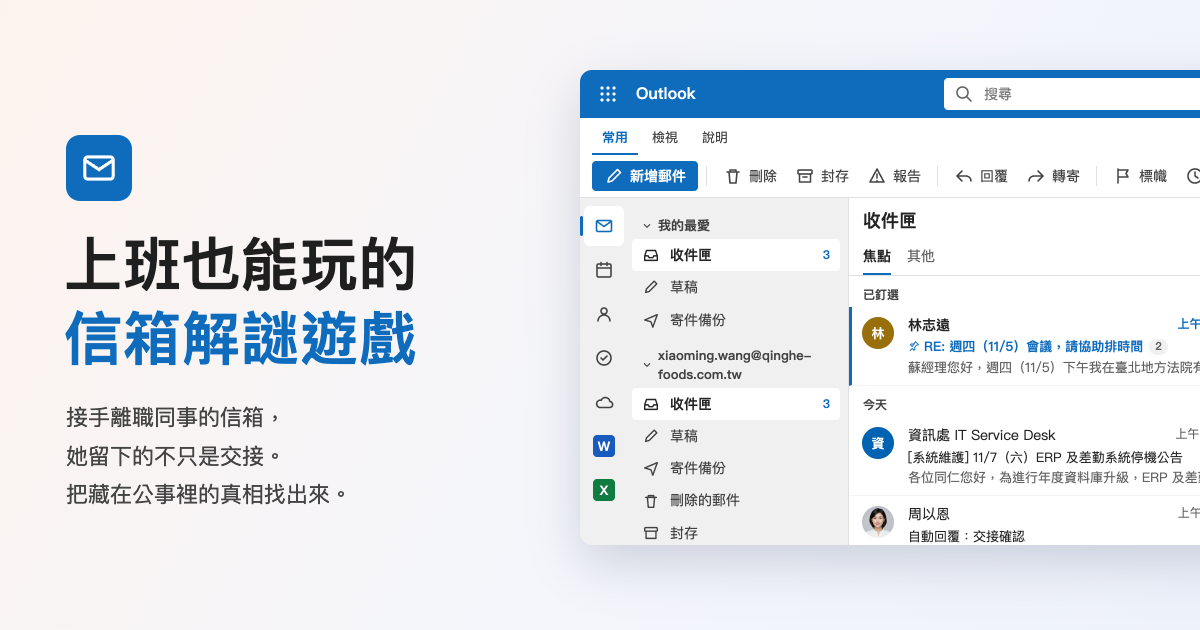
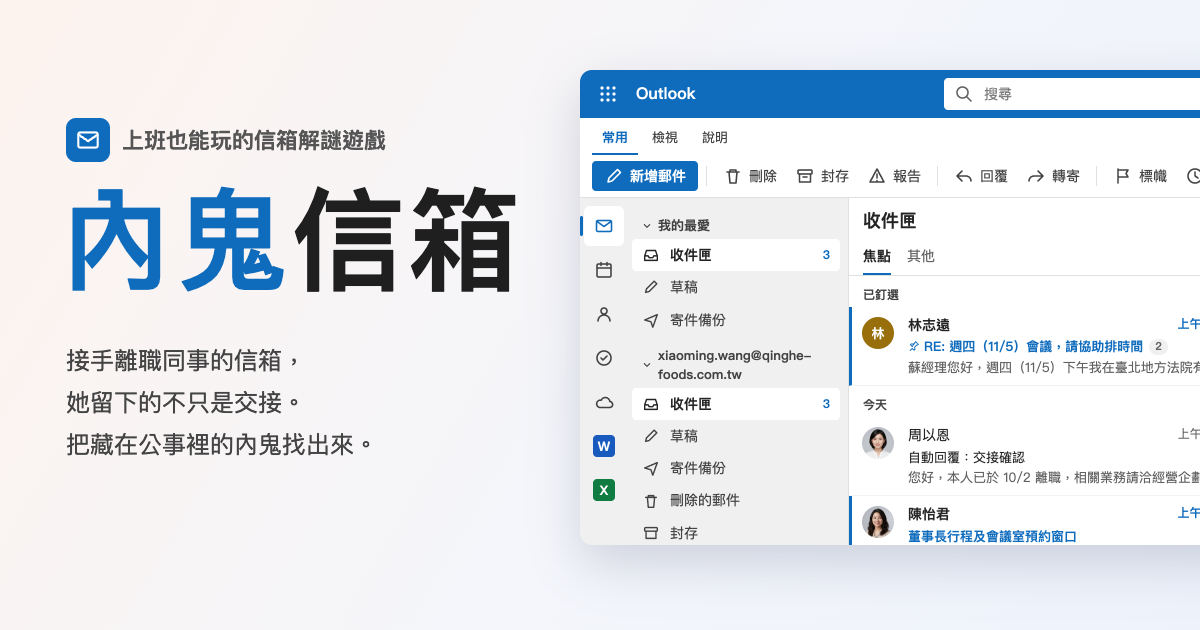
feat: 定名《內鬼信箱》＋題目修正、壞結局成績單、附件改 Outlook 樣式
- 第 7 題密碼改諧音數字謎（5914），藏在以恩回信
- 第 1/6/12/15 題文字與判定放寬、包裹清單改到第 13 題才到
- 壞結局補成績單與作者信、作者頭像換小黃瓜、作者信連前作《冒牌信箱》
- 刪三封干擾信、分享圖重做

Changed region(s): [[0.0308, 0.181, 0.4317, 0.8143], [0.7092, 0.6635, 1.0, 0.8746], [0.9867, 0.6635, 1.0, 0.6937]]

diff --git a/index.html b/index.html
@@ -6,7 +6,7 @@
 <meta name="robots" content="noindex,nofollow">
 <meta property="og:type" content="website">
 <meta property="og:url" content="https://akangdesigner.github.io/qinghe-mail/">
-<meta property="og:title" content="上班也能玩的信箱解謎遊戲">
+<meta property="og:title" content="內鬼信箱｜上班也能玩的信箱解謎遊戲">
 <meta property="og:description" content="接手離職同事的信箱，她留下的不只是交接。把藏在公事裡的真相找出來。">
 <meta property="og:image" content="https://akangdesigner.github.io/qinghe-mail/og.png">
 <meta property="og:image:width" content="1200">
@@ -332,6 +332,16 @@ table.sheet{border-collapse:collapse;font-size:13px;margin:0 16px 16px;min-width
 .schd{display:flex;align-items:center;gap:10px;flex-wrap:wrap;background:#fff4ce;border:1px solid #f0d78c;color:#5c4100;border-radius:6px;padding:8px 12px;margin-bottom:12px;font-size:13.5px}
 .schd button{margin-left:auto;background:#fff;border:1px solid #c8a600;border-radius:4px;padding:4px 12px;font-weight:600;color:#5c4100}
 .schd.off{background:#f0f0f0;border-color:var(--line);color:var(--muted)}
+.files{display:flex;flex-wrap:wrap;gap:8px;margin:14px 0 4px 52px}
+.fcard{display:flex;align-items:center;gap:10px;width:236px;border:1px solid var(--line);border-radius:4px;padding:6px 8px;cursor:pointer;background:#fff;font-size:13px}
+.fcard:hover{background:#f5f5f5}
+.fcard .fi{width:28px;height:32px;border-radius:2px;display:grid;place-items:center;color:#fff;font:700 12px/1 sans-serif;flex:none}
+.fcard .fn{flex:1;min-width:0}.fcard .fn b{display:block;font-weight:400;white-space:nowrap;overflow:hidden;text-overflow:ellipsis}.fcard .fn small{color:var(--muted);font-size:12px}
+.fcard .fd{color:var(--muted);font-size:12px;padding:2px 4px}
+.it .chips{grid-column:2/4;display:flex;gap:6px;margin-top:4px}.it .chip{display:flex;align-items:center;gap:6px;border:1px solid var(--line);border-radius:12px;padding:2px 10px 2px 4px;font-size:12px;max-width:200px;white-space:nowrap;overflow:hidden;text-overflow:ellipsis;background:#fff}
+.it .chip i{width:16px;height:16px;border-radius:2px;color:#fff;font:700 9px/16px sans-serif;text-align:center;font-style:normal;flex:none}
+.it .clip{width:13px;height:13px;vertical-align:-2px;margin-right:4px;color:var(--muted)}
+.cl{color:#0f6cbd;text-decoration:none}.cl:hover{text-decoration:underline}.cl::before{content:"X";display:inline-block;width:14px;height:14px;margin:0 4px 0 2px;border-radius:2px;background:#107c41;color:#fff;font:700 9px/14px sans-serif;text-align:center;vertical-align:-1px}
 .att{display:inline-block;border:1px solid var(--line);border-radius:6px;padding:6px 12px;font-size:13px;margin-bottom:12px}
 
 /* 登入 */
@@ -362,7 +372,7 @@ table.sheet{border-collapse:collapse;font-size:13px;margin:0 16px 16px;min-width
 .rs-h b{border:2px solid #fff;border-radius:4px;padding:1px 10px;font-size:15px;letter-spacing:4px;transform:rotate(-4deg)}
 .rs-g{display:flex;align-items:center;gap:16px;padding:16px}
 .rs-rank{width:64px;height:64px;flex:none;border-radius:50%;display:grid;place-items:center;font:900 36px/1 Georgia,serif;color:#fff;background:#9aa0a6}
-.rs-S .rs-rank{background:#c99a2e}.rs-A .rs-rank{background:#0f6cbd}.rs-B .rs-rank{background:#498205}.rs-C .rs-rank{background:#9aa0a6}
+.rs-S .rs-rank{background:#c99a2e}.rs-A .rs-rank{background:#0f6cbd}.rs-B .rs-rank{background:#498205}.rs-C .rs-rank{background:#9aa0a6}.rs-D .rs-rank{background:#a4262c}
 .rs-g small{display:block;color:var(--muted);font-size:12px}.rs-g b{font-size:17px}
 .body .rs-t{width:100%;border-collapse:collapse;font-size:14px;margin:0}.body .rs-t th,.body .rs-t td{padding:8px 16px;border:0;border-top:1px solid var(--line);text-align:left}
 .body .rs-t th{color:var(--muted);font-weight:400;width:40%}.rs-ok{color:#188038}
@@ -541,6 +551,7 @@ table.sheet{border-collapse:collapse;font-size:13px;margin:0 16px 16px;min-width
 .cv b{flex:none;font-weight:600}
 .cv-p{flex:1;min-width:0;color:var(--muted);white-space:nowrap;overflow:hidden;text-overflow:ellipsis}
 .cv-t{flex:none;color:var(--muted);font-size:12px}
+.hist{border:1px solid var(--line);background:#f5f5f5;border-radius:4px;padding:0 8px;line-height:16px;font-size:14px;cursor:pointer;color:var(--fg2);margin-top:12px}.hist:hover{background:#e8e8e8}
 .cv-sep{margin:26px 0 4px;font-size:12px;color:var(--muted)}
 .selfie{position:relative;display:block;width:100%;max-width:560px;margin:10px 0;padding:13% 0 11%;border-radius:6px;overflow:hidden;background:linear-gradient(#ff8fb8,#ffd27f);text-decoration:none}
 .selfie .fl{position:absolute;font-size:clamp(18px,5vw,30px)}
@@ -610,6 +621,7 @@ table.sheet{border-collapse:collapse;font-size:13px;margin:0 16px 16px;min-width
 .av[data-n="林子晴"]{background:url(img/lin.jpg) center/cover!important;color:transparent!important}
 .av[data-n="周以恩"]{background:url(img/zhou.jpg) center/cover!important;color:transparent!important}
 .av[data-n="何正雄"]{background:url(img/ho.jpg) center/cover!important;color:transparent!important}
+.av[data-n="阿康（遊戲作者）"]{background:url(img/cucumber.jpg) center/cover!important;color:transparent!important}
 .av[data-n="張美玲"]{background:url(img/chang.jpg) center/cover!important;color:transparent!important}
 
 /* 手機 */
@@ -903,12 +915,8 @@ const MAILS = [
    body:`<p>小明：</p>
 <p>週四（11/5）下午找一個小時開藍海專案會議，與會：董事長、財務長、我、恆信法律事務所林律師（外部）。四個人都要到，少一個都不行。</p>
 <p>會議室用 12F 大會議室。行事曆用排程小幫手就看得到大家什麼時候有空，找好直接發邀請。</p>
-<p>會議名稱<b>不要</b>寫藍海，寫「Q4 營運檢討」就好。</p>
+<p>會議名稱請寫「<b>Q4 營運檢討</b>」。</p>
 <div class="sig"><b>蘇志誠</b>　Jason Su<br>經營企劃部　經理　#3105</div>`},
-  {id:"n-erp", grp:"今天", from:"資訊處 IT Service Desk", c:C.it, tm:"上午 10:48", sys:true,
-   subj:"[系統維護] 11/7（六）ERP 及差勤系統停機公告", pv:"各位同仁您好，為進行年度資料庫升級，ERP 及差勤系統將於 11/7（六）08:00–18:00 暫停服務……",
-   who:"IT Service Desk &lt;it-service@qinghe-foods.com.tw&gt;", to:"收件者：晴禾全體同仁",
-   body:`<p>各位同仁您好：</p><p>為進行年度資料庫升級，ERP 及差勤系統將於 <b>11/7（六）08:00–18:00</b> 暫停服務，期間無法請假、簽核及查詢庫存。</p><p>如有急件請於 11/6（五）下班前完成送簽。造成不便，敬請見諒。</p><div class="sig"><b>資訊處 IT Service Desk</b>　#2000</div>`},
   {id:"auto", grp:"今天", from:"周以恩", c:C.zhou, tm:"上午 10:31", sys:true,
    subj:"自動回覆：交接確認", pv:"您好，本人已於 10/2 離職，相關業務請洽經營企劃部蘇志誠經理（分機 3105）……",
    who:"周以恩 &lt;yien.chou@qinghe-foods.com.tw&gt;", to:"收件者：王小明",
@@ -943,13 +951,6 @@ const MAILS = [
    subj:"【資訊處】員工入口網改版上線", pv:"員工入口網已於 11/2 改版上線，通訊錄及各項行政服務請由新版入口進入……",
    who:"資訊處 &lt;it@qinghe-foods.com.tw&gt;", to:"收件者：晴禾全體同仁",
    body:`<p>各位同仁好：</p><p><a href="#" data-web="portal" style="color:#c0392b;font-weight:600">員工入口網</a>已於 11/2 改版上線，通訊錄及各項行政服務請由新版入口進入，舊版網址將於 11/30 停用。</p><p>以公司帳號登入即可使用，無須另行申請。如有問題請洽資訊處 #1500。</p><div class="sig"><b>資訊處</b>　#1500</div>`},
-  {id:"hr", hints:["新進同仁要在 11/6 前上傳存摺和身分證影本、上完兩堂線上課、去警衛室領識別證。", "詳解：這封是一般公告，跟現在手上的工作無關。"], grp:"昨天", from:"人力資源處", c:C.hr, tm:"週日 下午 6:00",
-   subj:"【公告】新進同仁報到須知及教育訓練時程", pv:"各位新進同仁您好，歡迎加入晴禾食品。報到當週請於 11/6（五）前完成以下事項……",
-   who:"人力資源處 &lt;hr@qinghe-foods.com.tw&gt;", to:"收件者：晴禾全體新進同仁",
-   body:`<p>各位新進同仁您好：</p><p>歡迎加入晴禾食品！報到當週請於 <b>11/6（五）</b>前完成以下事項：</p>
-<ol><li>至 HR 系統上傳存摺封面及身分證影本（勞健保加保用）</li><li>完成線上課程「個人資料保護法」與「內線交易防制」</li><li>員工識別證請至 1 樓警衛室領取</li></ol>
-<p>本公司 12 月將辦理年度健康檢查，詳情另行公告。</p>
-<div class="sig"><b>人力資源處</b>　#1100</div>`},
   {id:"it", hints:["你的 Microsoft 365 帳號開好了，第一次登入要改密碼並設定多重要素驗證。", "最後一段提到：周以恩的共用資料夾權限，是依部門主管申請轉給你的。"], grp:"昨天", from:"資訊處 IT Service Desk", c:C.it, tm:"週日 下午 5:12",
    subj:"[帳號開通] 您的 Microsoft 365 帳號已建立", pv:"您的帳號 xiaoming.wang 已建立，首次登入請變更密碼並設定 Authenticator 多重要素驗證……",
    who:"IT Service Desk &lt;it-service@qinghe-foods.com.tw&gt;", to:"收件者：王小明",
@@ -970,7 +971,7 @@ const MAILS = [
 const TEA_REQ = {id:"tea", from:"吳佩珊", c:"#8764b8", sys:false, q:"draft", who:"吳佩珊 &lt;peishan.wu@qinghe-foods.com.tw&gt;", to:"收件者：王小明",
   subj:"11/5（四）部門下午茶代訂", pv:"小明您好，以恩離職後部門下午茶停了一個月，這週四要恢復，團購之前是她負責的，麻煩你接手……",
   hints:["佩珊請你用部門帳號，在禾茶舖官網訂這週四的下午茶：品項跟 10/1 那次一樣，週四下午 3:30 送 12F 茶水間。",
-    "帳號密碼要從周以恩的交接資料找。她信箱的草稿裡有一份交接清單，說記在團單「帳」那欄。打開團單（左邊綠色 X）找找看，那欄在哪裡？",
+    "帳號密碼要從周以恩的交接資料找。她信箱的草稿裡有一份交接清單，說記在團單「帳」那欄。點交接清單裡的「下午茶團單.xlsx」打開找找看，那欄在哪裡？",
     "詳解：團單欄位從 I 直接跳到 K，J 欄被隱藏了；點 I 或 K 的欄名選「取消隱藏欄」，J 欄寫著帳號 qinghe-plan、密碼 hecha3109。點信裡的禾茶舖官網，到「企業團購」頁最下面的「企業會員專區」登入（不是會員中心，那是個人會員）。在訂單紀錄找 10/1 的團購，按「再訂一次」，送達日期選 11/5（四）、時間 15:30，送出訂單。"],
   body:`<p>小明您好：</p>
 <p>以恩離職後部門下午茶停了一個月，這週四（11/5）要恢復。團購之前是以恩負責的，之後就麻煩你接手，用部門帳號在<a href="#" data-web="hecha">禾茶舖官網</a>下單。</p>
@@ -1034,13 +1035,13 @@ const ZOLD = [
     pv:"子晴：下午茶的帳我另外記在團單 J，跟大家填的分開……",
     body:`子晴：
 
-下午茶的帳我另外記在團單 J，跟大家填的分開。
+下午茶的帳我另外記在<a href="#" class="cl" data-go="xl">下午茶團單.xlsx</a> J 欄，跟大家填的分開。
 月底對帳看那邊就好，我請假的話妳直接對。`}),
   Z("z-drafts", "更早", "2026/9/30（週三） 下午 6:20", "9/30", {id:"zd2", draft:true, from:"蘇志誠", c:C.zhou, subj:"交接清單（未完成）",
     pv:"1. 藍海專案會議通知與紀錄 2. 財務模型 /藍海/03_財務……",
     body:`1. 藍海專案會議通知與紀錄
 2. 財務模型 /藍海/03_財務（每週一更新）
-3. 部門團購帳號（禾茶舖）：帳密記在團單「帳」那欄
+3. 部門團購帳號（禾茶舖）：帳密記在<a href="#" class="cl" data-go="xl">下午茶團單.xlsx</a>「帳」那欄
 4. B1 會議室的事，我再想想要不要寫進來`}),
   Z("z-inbox", "上個月", "2026/10/29（週四） 上午 9:02", "10/29", {id:"zi1", unread:true, from:"陳怡君", c:C.chen, who:"陳怡君 &lt;yijun.chen@qinghe-foods.com.tw&gt;", to:"收件者：何正雄; 張美玲; 蘇志誠; 周以恩",
     subj:"10/29（四）會議地點異動", pv:"各位好，今日下午 2:00 會議地點改至 B1 會議室……",
@@ -1056,8 +1057,6 @@ const ZOLD = [
   Z("z-inbox", "上個月", "2026/10/1（週四） 下午 5:40", "10/1", {id:"zi3", from:"人力資源處", c:C.hr, who:"人力資源處 &lt;hr@qinghe-foods.com.tw&gt;", to:"收件者：周以恩",
     subj:"離職手續確認", pv:"周以恩您好，您的離職生效日為 10/2，請於當日歸還識別證及筆電……",
     body:`<p>周以恩您好：</p><p>您的離職生效日為 10/2，請於當日下班前歸還識別證及筆電。</p><div class="sig"><b>人力資源處</b>　#1100</div>`}),
-  Z("z-inbox", "上個月", "2026/10/9（週五） 下午 5:30", "10/9", {id:"zi8", from:"張美玲", c:"#498205", who:"張美玲 &lt;ml.chang@qinghe-foods.com.tw&gt;", to:"收件者：晴禾全體同仁",
-    subj:"國慶連假平安", pv:"各位同仁辛苦了，連假出遊注意安全……", body:`${elderPic("國慶快樂🌷", "出入平安 闔家安康", ["#4fc3f7", "#b2ff59"])}<p>各位同仁辛苦了：</p><p>連假出遊注意安全，開開心心出門、平平安安回家。</p><div class="sig"><b>張美玲</b>　財務長</div>`}),
   Z("z-inbox", "更早", "2026/9/25（週五） 上午 8:05", "9/25", {id:"zi9", from:"張美玲", c:"#498205", who:"張美玲 &lt;ml.chang@qinghe-foods.com.tw&gt;", to:"收件者：晴禾全體同仁",
     subj:"中秋節快樂", pv:"祝各位同仁中秋節快樂，月圓人團圓……", body:`${elderPic("中秋快樂🌷", "月圓人團圓 福氣滿滿", ["#7e57c2", "#ffb74d"])}<p>祝各位同仁中秋節快樂！</p><p>月圓人團圓，闔家平安。</p><div class="sig"><b>張美玲</b>　財務長</div>`}),
   Z("z-inbox", "更早", "2026/9/29（週二） 下午 4:10", "9/29", {id:"zi6", from:"張美玲", c:"#498205", who:"張美玲 &lt;ml.chang@qinghe-foods.com.tw&gt;", to:"收件者：何正雄; 蘇志誠; 周以恩",
@@ -1071,7 +1070,7 @@ const ZOLD = [
     body:`<p>您的郵件</p><p>收件者：陳怡君<br>主旨：藍海 估值區間（給董事長）<br>傳送時間：2026/10/1（週四）下午 5:31</p><p>已於 <b>2026/10/1（週四）下午 5:42</b> 被讀取。</p>`}),
   Z("z-sent", "上個月", "2026/10/1（週四） 上午 11:02", "10/1", {id:"zs1", from:"經營企劃部", c:C.zhou, who:"周以恩 &lt;yien.chou@qinghe-foods.com.tw&gt;", to:"收件者：經營企劃部",
     subj:"下午茶揪團 🧋", pv:"今天禾茶舖，兩點半前填團單～三點半一樣在 12F 茶水間等外送……",
-    body:`<p>今天禾茶舖，兩點半前填團單～</p><p>三點半一樣在 12F 茶水間等外送，到了自己來拿喔 🧋</p><div class="sig"><b>周以恩</b>　#3109</div>`}),
+    body:`<p>今天禾茶舖，兩點半前填團單～</p><p>三點半一樣在 12F 茶水間等外送，到了自己來拿喔 🧋</p><div class="sig"><b>周以恩</b>　#3109</div>`, files:[{n:"下午茶團單.xlsx", sz:"18 KB", go:"xl"}]}),
 ];
 MAILS.push(...ZOLD);
 
@@ -1096,8 +1095,9 @@ function fail(q, lines, comfort){
   later(() => {
     const t = comfort || ["怎麼會這樣……", "我不相信是你。"];
     arrive([{id:"cf" + Date.now(), from:"林子晴", c:"#038387", sys:true, who:"林子晴 &lt;tzuching.lin@qinghe-foods.com.tw&gt;", to:"收件者：王小明",
-      subj:"RE: 交接事項", pv:t[0], body:t.map(x => `<p>${x}</p>`).join("") + `<p>子晴</p>`}]);
+      subj:"RE: 交接事項", pv:t[0], body:t.map(x => `<p>${x}</p>`).join("") + `<p>子晴</p>` + (q === "auth" ? resultCard(true) : "")}]);
     notify(MAILS[0]);
+    if (q === "auth") later(() => { arrive([THANKS_BAD]); notify(MAILS[0]); toast("全劇終　謝謝遊玩"); }, 9000);
   }, 6000);
 }
 document.addEventListener("click", e => { const b = e.target.closest("[data-retry]"); if (b){ try { sessionStorage.setItem("qinghe-retry", "1"); } catch (_) {} location.search = "?q=" + b.dataset.retry; } });
@@ -1106,9 +1106,13 @@ const RUN = (() => { const g = k => { try { return sessionStorage.getItem(k); } 
   if (retried) st("qinghe-retries", String(+(g("qinghe-retries") || 0) + 1)); else { st("qinghe-retries", "0"); st("qinghe-start", String(Date.now())); }
   return {retries: +(g("qinghe-retries") || 0), start: +(g("qinghe-start") || Date.now())}; })();
 // 結局成績單：依看摘要、回錯、重來次數計算
-function resultCard(){
+function resultCard(bad){
   const mins = Math.max(1, Math.round((Date.now() - RUN.start) / 60000));
   const score = 100 - hintsUsed * 3 - wrong * 5 - RUN.retries * 10, rank = score >= 95 ? "S" : score >= 75 ? "A" : score >= 50 ? "B" : "C";
+  if (bad) return `<div class="rs"><div class="rs-h" style="background:#a4262c"><span>藍海專案　估值檔外流案</span><b>未結案</b></div>
+<div class="rs-g rs-D"><div class="rs-rank">✕</div><div><small>你的結局</small><b>她拿著授權書出境了</b></div></div>
+<table class="rs-t">${[["財務長 張美玲", "持偽造授權書出境"], ["陳怡君", "事後向董事長說明"], ["周以恩", "嫌疑仍未洗清"], ["花費時間", Math.max(1, Math.round((Date.now() - RUN.start) / 60000)) + " 分鐘"], ["看摘要", hintsUsed + " 次"], ["回錯信", wrong + " 次"], ["重新來過", RUN.retries + " 次"]].map(([k, v]) => `<tr><th>${k}</th><td>${v}</td></tr>`).join("")}</table>
+<p class="rs-f">授權書上有兩個破綻。按人事通知裡的「重新來過」，可以回到第 15 題再看一次。</p></div>`;
   const title = {S:"董事長問你要不要調去稽核室", A:"蘇經理說要請你吃飯", B:"有驚無險，總算攔下來了", C:"人是抓到了，但你也被嚇得不輕"}[rank];
   const row = (k, v, ok) => `<tr><th>${k}</th><td${ok ? " class=rs-ok" : ""}>${v}</td></tr>`;
   const sq = Math.min(Math.max(+new URLSearchParams(location.search).get("q") || 1, 1), 15);
@@ -1147,8 +1151,8 @@ function renderList(){
     const th = query ? [m] : thread(m), cur = MAILS.find(x => x.id === sel);
     return g + `<div class="it${th.some(x => x.unread) ? " unread" : ""}${th.includes(cur) ? " sel" : ""}" data-id="${m.id}">
       <span class="av" data-n="${m.draft ? "周以恩" : m.from}" style="background:${m.c}">${m.from[0]}</span>
-      <span class="fr">${m.draft ? `<span class="dft">${m.sched && !m.canceled ? "[已排程]" : "[草稿]"}</span>` : ""}${m.from}${where}</span><span class="tm">${m.tm}</span>
-      <span class="sj">${pin ? PIN : ""}${m.tag || ""}${m.subj}${th.length > 1 ? `<span class="cnt">${th.length}</span>` : ""}</span><span class="pv">${m.pv}</span></div>`;
+      <span class="fr">${m.draft ? `<span class="dft">${m.sched && !m.canceled ? "[已排程]" : "[草稿]"}</span>` : ""}${m.from}${where}</span><span class="tm">${m.files ? CLIP : ""}${m.tm}</span>
+      <span class="sj">${pin ? PIN : ""}${m.tag || ""}${m.subj}${th.length > 1 ? `<span class="cnt">${th.length}</span>` : ""}</span><span class="pv">${m.pv}</span>${m.files ? `<span class="chips">${m.files.map(f => `<span class="chip"><i style="background:${FTYPE(f.n)[1]}">${FTYPE(f.n)[0][0] || ""}</i>${f.n}</span>`).join("")}</span>` : ""}</div>`;
   }).join("") : `<div class="grp" style="padding:24px 14px;font-weight:400;color:var(--muted)">${query ? "找不到符合的郵件。" : "這裡沒有郵件。"}</div>`);
   document.querySelectorAll(".folders .n").forEach(e => { const b = e.dataset.n, n = MAILS.filter(m => boxOf(m) === b && (b === "z-drafts" || m.unread)).length; e.textContent = n || ""; });
   document.querySelectorAll(".folders .f").forEach(e => e.classList.toggle("on", !query && e.dataset.fold === fold));
@@ -1161,7 +1165,7 @@ function show(id){
       : `<div class="schd"><span>🕕 此郵件已排程於 <b>${m.sched}</b> 傳送。</span><button id="unsched">取消傳送</button></div>`) : "";
     read.innerHTML = `<div class="rd">${back}${sch}<div class="draft-note">草稿 · 上次儲存於 ${m.date}</div>
       <div class="draft-h"><div>寄件者　<b>周以恩 &lt;yien.chou@qinghe-foods.com.tw&gt;</b></div><div>收件者　<b>${m.toAddr || ""}</b></div><div>主旨　<b>${m.subj}</b></div></div>
-      ${m.att ? `<div class="att">📎 ${m.att}</div>` : ""}
+      ${m.att ? `<div class="att">📎 ${m.att}</div>` : ""}${fileCards(m).replace('class="files"', 'class="files" style="margin-left:0"')}
       <div class="draft-body">${m.body}</div></div>`;
     document.body.classList.add("reading"); return;
   }
@@ -1178,15 +1182,19 @@ function show(id){
     </div>
     ${m.invite ? `<div class="inv"><div class="inv-t">${m.invite.lock ? "🔒 " : ""}${m.invite.title}</div><div>🕕 ${m.invite.when}</div><div>📍 ${m.invite.where}</div>
       ${m.rsvp ? `<div class="inv-done">你已回覆：${m.rsvp}</div>` : `<div class="inv-b"><button data-rsvp="接受">✓ 接受</button><button data-rsvp="暫訂">? 暫訂</button><button data-rsvp="拒絕">✕ 拒絕</button><button disabled>建議新時間</button></div>`}</div>` : ""}
-    <div class="body">${m.body}</div>
+    ${fileCards(m)}<div class="body">${m.body}</div>
     ${m.sys ? "" : `<div class="replybar">${REPLYBAR}</div>`}
     <div id="cmp"></div>${below.length ? `<div class="cv-sep">這個交談中較早的郵件（${below.length}）</div>` + below.map(fold1).join("") : ""}</div>`;
   document.body.classList.add("reading");
 }
+const FTYPE = n => /\.xlsx?$/.test(n) ? ["X", "#107c41"] : /\.pptx?$/.test(n) ? ["P", "#c43e1c"] : /\.docx?$/.test(n) ? ["W", "#185abd"] : /\.pdf$/.test(n) ? ["PDF", "#d13438"] : ["", "#8a8886"];
+const CLIP = `<svg class="clip" viewBox="0 0 20 20" fill="none" stroke="currentColor" stroke-width="1.5"><path d="M14 9l-5.5 5.5a3 3 0 0 1-4.2-4.2L10 4.6a2 2 0 0 1 2.8 2.8L7.3 13"/></svg>`;
+const fileCards = m => m.files ? `<div class="files">${m.files.map(f => { const [t, c] = FTYPE(f.n); return `<div class="fcard" data-go="${f.go}"><span class="fi" style="background:${c}">${t}</span><span class="fn"><b>${f.n}</b><small>${f.sz}</small></span><span class="fd">⌄</span></div>`; }).join("")}</div>` : "";
 const ACTS = `<button aria-label="反應"><svg viewBox="0 0 20 20"><circle cx="10" cy="10" r="7"/><path d="M7 12a4 4 0 0 0 6 0M7.5 8v.3M12.5 8v.3"/></svg></button><button aria-label="回覆"><svg viewBox="0 0 20 20"><path d="M8 5L3 10l5 5M3 10h9a5 5 0 0 1 5 5"/></svg></button><button aria-label="全部回覆"><svg viewBox="0 0 20 20"><path d="M9 5L4 10l5 5M6 5L1 10l5 5M4 10h8a5 5 0 0 1 5 5"/></svg></button><button aria-label="轉寄"><svg viewBox="0 0 20 20"><path d="M12 5l5 5-5 5M17 10H8a5 5 0 0 0-5 5"/></svg></button><button aria-label="更多"><svg viewBox="0 0 20 20"><circle cx="5" cy="10" r=".8"/><circle cx="10" cy="10" r=".8"/><circle cx="15" cy="10" r=".8"/></svg></button>`, REPLYBAR = `<button><svg viewBox="0 0 20 20"><path d="M8 5L3 10l5 5M3 10h9a5 5 0 0 1 5 5"/></svg>回覆</button><button><svg viewBox="0 0 20 20"><path d="M9 5L4 10l5 5M6 5L1 10l5 5M4 10h8a5 5 0 0 1 5 5"/></svg>全部回覆</button><button><svg viewBox="0 0 20 20"><path d="M12 5l5 5-5 5M17 10H8a5 5 0 0 0-5 5"/></svg>轉寄</button>`;
 items.addEventListener("click", e => { const it = e.target.closest(".it"); if (it) show(it.dataset.id); });
 read.addEventListener("click", e => { const c = e.target.closest(".cv[data-cv]"); if (c){ show(c.dataset.cv); read.scrollTop = 0; } });
 let hintsUsed = 0;
+read.addEventListener("click", e => { const h = e.target.closest('[data-act="hist"]'); if (h){ h.nextElementSibling.hidden = !h.nextElementSibling.hidden; } });
 read.addEventListener("click", e => {
   if (!e.target.closest('[data-act="hint"]')) return;
   const m = MAILS.find(x => x.id === sel); if (!m.hints || (m.h || 0) >= m.hints.length) return;
@@ -1272,8 +1280,7 @@ document.querySelector(".sa-h .send").addEventListener("click", () => {
   if (done.meet) return go("mail");
   const ttl = document.getElementById("sa-ttl").value.normalize("NFKC").replace(/\s/g, "").toLowerCase();
   if (!ttl) return toast("請新增標題");
-  if (/藍海|blue/.test(ttl)) return miss("蘇經理交代過，會議名稱不能寫藍海");
-  if (!/營運|檢討/.test(ttl)) return miss("會議名稱跟蘇經理交代的不一樣");
+    if (ttl !== "q4營運檢討") return miss("會議名稱要照蘇經理說的寫「Q4 營運檢討」");
   const st = PPL.filter(clash), out = [];
   const subj = `${fmt(pick)}－${fmt(pick + 1)}`;
   st.forEach(p => out.push(p[0] === "12F 大會議室"
@@ -1440,26 +1447,29 @@ const LIN4 = {id:"lin4", ...GA, ask:false, q:"find",
   subj:"請聯繫離職同仁周以恩說明交接事項", pv:"主旨：請交接人聯繫離職同仁周以恩，取得 10/1 估值檔寄送經過之說明及相關資料……",
   hints:["這封總務處公文是子晴發的：她要你聯絡周以恩，問清楚 10/1 估值檔的經過，拿到以恩手上的線索。可是以恩手機停了，寄到公司信箱也只會收到自動回覆。",
     "禾茶舖是公司外的人，他們收到的自動回覆跟公司裡的人不一樣（周以恩的收件匣有禾茶舖 10/5 的信）。自動回覆可以對公司內、外設不同內容，你看得到周以恩信箱的設定。",
-    "詳解：右上角齒輪「設定」→「郵件」→「自動回覆」，信箱切到周以恩，「傳送自動回覆給組織外的人」那段寫了她的私人信箱 yien.letters@gmail.com。按「新增郵件」寄信給她，說明你是接手她工作的人，想請她說明 10/1 估值檔的經過。"],
-  body:gongwen("1131105", '請交接人<span style="color:var(--flag)">聯繫離職同仁周以恩</span>，取得 10/1 估值檔寄送經過之說明及相關資料。', ["本案涉及前述信件排程設定人，尚需當事人說明 10/1 估值檔寄送經過，並提供其保留之資料。", "本人手機已停用，寄公司信箱僅收到離職自動回覆。", '另據禾茶舖反映，10/5 仍收到本人回信，之後改寄本人<span style="color:var(--flag)">私人信箱</span>，請交接人查明該信箱。'], '請交接人以其他方式聯繫本人。本人不回覆陌生來信，請於信中<span style="color:var(--flag)">說明您是接手其業務的交接人</span>。')};
+    "詳解：右上角齒輪「設定」→「郵件」→「自動回覆」，信箱切到周以恩，「傳送自動回覆給組織外的人」那段寫了她的私人信箱 yien.letters@gmail.com。按「新增郵件」寄信給她，寫上你的名字，再提一件你接手過的事（例如排了 Q4 營運檢討、代訂了部門下午茶），再問她估值檔的事。"],
+  body:gongwen("1131105", '請交接人<span style="color:var(--flag)">聯繫離職同仁周以恩</span>，取得 10/1 估值檔寄送經過之說明及相關資料。', ["本案涉及前述信件排程設定人，尚需當事人說明 10/1 估值檔寄送經過，並提供其保留之資料。", "當事人手機已停用，寄公司信箱僅收到離職自動回覆。", '另據禾茶舖反映，10/5 仍收到當事人回信，之後改寄其<span style="color:var(--flag)">私人信箱</span>，請交接人查明該信箱。'], '請交接人以其他方式聯繫當事人。當事人不回覆陌生來信，信中請<span style="color:var(--flag)">寫明：一、您的姓名；二、您接手過的其中一項任務；三、詢問估值檔的事</span>。')};
 function startFind(){ arrive([LIN4]); notify(MAILS[0]); }
 // 第 6 題：以恩只回這一封，之後資訊處就把她的私人信箱擋掉了
 // 第 7 題：信裡交代她留下的檔案和密碼
 const ZHOU_REPLY = {from:"周以恩", c:C.zhou, ext:true, sys:false, q:"vault", who:`周以恩 &lt;${ZHOU_MAIL}&gt;`, to:"收件者：王小明",
   subj:"RE: ", pv:"收到你的信。10/1 下午估值檔的事，我說明一下……",
-  hints:["周以恩把證據藏在禾茶舖菜單裡，而且上了密碼。",
-    "共用資料夾在左邊的雲朵圖示 OneDrive，菜單檔就在裡面。密碼要用團單上的分機。",
-    "詳解：OneDrive 裡的「禾茶舖菜單_2026秋.docx」就是她藏東西的檔案。密碼是林子晴的分機 3112，後面接周以恩的分機 3109，也就是 31123109。"],
+  hints:["周以恩把證據藏在禾茶舖菜單裡（左邊雲朵圖示 OneDrive），檔案上了密碼。",
+    "她說密碼是四個數字，唸出來就知道。把信最後那段道別唸出聲，留意哪幾個字跟數字同音。",
+    "詳解：「離開那天的中『午』，我在門口站了很『久』。『衣』櫃裡的東西，『似』乎都不重要了。」午＝五、久＝九、衣＝一、似＝四，密碼是 5914。"],
   body:`<p>您好，收到你的信。原來是你接了我的位子。</p>
 <p>10/1 的事，我想讓接手的人知道。</p>
 <p>10/1 下午，怡君姐拿了一杯四季春到我座位，說董事長急需估值檔，請我先寄給她代轉，我照辦了。</p>
 <p>隔天該檔案出現在外部，調查結果只確認最後經手的人是我。</p>
-<p>我當時沒有證據，只能先離職。</p>
-<p>交接的檔案我沒有帶走，放在禾茶舖菜單裡。</p>
-<p>文件有設密碼：<b>子晴的分機，後面接我的分機。</b></p>
-<p>開啟後就會了解我為什麼確定是她。</p>
+<p>我拿不出證據，最後是被逼著離職的。</p>
 <p>公司應該很快就會擋掉這個信箱，之後可能聯絡不上我了。</p>
+<p>交接的檔案我沒有帶走，放在禾茶舖菜單裡。</p>
+<p>文件的密碼是四個數字。</p>
+<p style="color:#c50f1f">「離開那天的中午，我在門口站了很久。衣櫃裡的東西，似乎都不重要了。」</p>
 <p>以恩</p>`};
+const zhouHist = (subj, said) => `<button class="hist" data-act="hist" aria-label="顯示郵件歷程記錄">⋯</button><div class="histbox" hidden>
+<div style="border-top:1px solid var(--line);padding-top:10px;font-size:13px;color:var(--fg2)"><b>寄件者：</b>${ME} &lt;${ACCT}@${DOMAIN}&gt;<br><b>寄件日期：</b>${TODAY.replace(/^2026\//, "2026年").replace("/", "月").replace("（", "日（")}<br><b>收件者：</b>${ZHOU_MAIL}<br><b>主旨：</b>${subj}</div>
+<div style="margin-top:10px;white-space:pre-wrap">${said.replace(/&/g, "&amp;").replace(/</g, "&lt;")}</div></div>`;
 // 以恩回信後，資訊處寄來的資安警示：私人信箱被封鎖
 const IT_WARN = {id:"itwarn", from:"資訊處 IT Service Desk", c:C.it, sys:true, who:"IT Service Desk &lt;it-service@qinghe-foods.com.tw&gt;", to:"收件者：王小明　副本：蘇志誠",
   tag:'<svg class="imp" viewBox="0 0 20 20"><path d="M10 3v9M10 16v.5" stroke-width="2.4"/></svg>',
@@ -1508,7 +1518,7 @@ const MENU_DOC = () => `<h2>禾茶舖　2026 秋季菜單</h2>
 <div class="note" style="position:relative;padding-right:64px">明天下班前，把估值檔拿到手。<span style="position:absolute;right:14px;top:8px;width:58px;height:58px;border-radius:50%;border:7px solid rgba(140,100,50,.16)"></span><span style="position:absolute;right:16px;top:12px">${stamp("su", 6, "c")}</span><small>（9/30 15:05 拍攝）</small></div>`;
 document.getElementById("pw-ok").addEventListener("click", () => {
   const v = document.getElementById("pw-in").value.replace(/\s|-/g, "");
-  if (v !== "31123109"){ document.getElementById("pw-err").textContent = "密碼不正確，請再試一次。"; if (!done.vault) wrong++; return; }
+  if (v !== "5914"){ document.getElementById("pw-err").textContent = "密碼不正確，請再試一次。"; if (!done.vault) wrong++; return; }
   pwDlg.classList.remove("show"); openDoc("禾茶舖菜單_2026秋.docx", MENU_DOC());
   if (!done.vault){ done.vault = true; later(() => toast("✓ 已移除保護，檔案已開啟"), 2500); later(startWho, 8000); }
 });
@@ -1526,7 +1536,7 @@ const ZHOU_WHO = {id:"zw", ...GA, q:"who",
     : /陳|怡君/.test(t) ? "陳怡君為便條收受人，本函所詢為用印人。"
     : /章|印/.test(t) ? "請填寫用印人姓名。"
     : "經核，回覆內容不符，請比對便條角落之用印。",
-  okText: "本處已收悉。\n用印人：蘇志誠。\n……怎麼會是他。\n請勿告知當事人，後續另函通知。",
+  okText: "本處已收悉。\n經比對，便條用印人為蘇志誠。\n本案請勿告知當事人，後續另函通知。",
   onOk: () => { later(() => toast("✓ 已傳送"), 2000); later(startStamp, 7000); }};
 function startWho(){ arrive([ZHOU_WHO]); notify(MAILS[0]); }
 // 第 9 題：蘇經理請你核對費用彙總，附件上是他 9 月換的新章（方），跟小卡上的舊章（圓）不一樣
@@ -1701,7 +1711,6 @@ function startDay3(){
   TODAY = "2026/11/4（週三）"; clock = 8 * 60 + 41;
   days.forEach((d, i) => d[2] = i === 2 ? 1 : 0); drawCal();
   toast("隔天　11 月 4 日（週三）早上");
-  arrive([{...PARCEL, tm:"上午 8:35"}]);
   later(() => { arrive([SU_Q]); notify(MAILS[0]); }, 3000);
   later(() => { clock = 9 * 60; MAILS.unshift(pzMail({...SNOOZED})); renderList(); }, 12000);
 }
@@ -1733,11 +1742,12 @@ const SU_LOG = {id:"sulog", from:"蘇志誠", c:C.su, sys:false, ask:true, q:"de
     "詳解：周以恩收件匣 10/2「週五快樂」那封，自拍背後的螢幕是 Gmail 新郵件，附件「藍海_估值區間.xlsx」，收件者是外部的 kevin.lau@harborline-cap.com。回覆蘇經理：財務長的自拍拍到她把估值檔寄出去。"],
   body:`<p>小明：</p><p>怡君剛剛來找過我了，事情我大概知道。</p>
 <p>10/1 晚上那筆下載紀錄，資訊處說已經被刪了。現在只有怡君的說法。</p>
-<p>你那邊如果有找到什麼，直接回我。</p>
+<p>怡君說，財務長那天加班到很晚，隔天一早還照常寄「週五快樂」給全公司，像什麼事都沒發生。</p>
+<p>我需要能證明財務長把估值檔寄出去的東西，最好是能直接拿給董事長看的。找到了回我。</p>
 <div class="sig"><b>蘇志誠</b>　Jason Su<br>經營企劃部　經理　#3105</div>`,
-  check: t => /照片|相片|自拍|長輩圖|週五快樂|10\/2|螢幕|背景|後面|背後|拍到|gmail|harborline|kevin|lau|收件者|附件|寄出|寄給|外部/i.test(t) ? "ok"
-    : /美玲|財務長|張/.test(t) ? "我知道是她，問題是拿什麼證明。" : "這個應該證明不了檔案在她那裡。",
-  okText:"……harborline 是對方的財務顧問。\n她自己寄給全公司的。\n我先存下來了，明天帶進董事長室。",
+  check: t => /照片|相片|自拍|長輩圖|週五快樂|螢幕|電腦|拍到|gmail|harborline|kevin|寄|估值|檔|附件|收件|外部|xlsx|excel|藍海|信/i.test(t) ? "ok"
+    : /美玲|財務長|張/.test(t) ? "我知道是她，問題是拿什麼證明。" : "你看到什麼了？跟我說清楚一點。",
+  okText:"我剛去翻了她那封週五快樂，把自拍放大來看。\n她背後的螢幕開著 Gmail，附件是藍海估值檔，收件者 kevin.lau@harborline-cap.com。harborline 是收購方的財務顧問。\n照片還是她自己寄給全公司的。我先存下來，明天帶進董事長室。",
   onOk: () => { later(() => toast("✓ 已傳送"), 2000); later(startParcel, 12000); }};
 // 第 13 題：財務長明早請假，10 點直接進董事會；包裹清單上 12F「M.L.C.」有件香港 DHL → 到員工入口網查包裹明細（Harborline、預約 11/5 07:30 本人領取、員編 F0003）→ 通訊錄查 F0003 是張美玲
 const PARCEL = {id:"parcel", from:"瑞光大樓管理中心", c:"#6b6b6b", who:"瑞光大樓管理中心 &lt;service@ruiguang-tower.com.tw&gt;", to:"收件者：瑞光大樓住戶",
@@ -1768,8 +1778,7 @@ const SU_WHERE = {id:"suwh", from:"蘇志誠", c:C.su, sys:false, ask:true, q:"p
 const CHEN_SHEET = {id:"chsh", from:"陳怡君", c:C.chen, sys:false, ask:true, q:"flight", who:"陳怡君 &lt;yijun.chen@qinghe-foods.com.tw&gt;", to:"收件者：晴禾一級主管; 經營企劃部",
   subj:"【董事長室】11/5 董事會時間異動", pv:"各位主管好：今日董事會改至下午 2:00 召開，上午董事會議室設備檢修，請勿進入……",
   body:`<p>各位主管好：</p><p>今日董事會改至<b>下午 2:00</b> 召開，上午董事會議室設備檢修，請勿進入。</p><p>附件為董事會資料各頁確認表，請各位撥冗開啟確認。</p>
-<div class="att" data-go="xs" style="cursor:pointer">📗 11-5_董事會資料確認表.xlsx　<small style="color:var(--muted)">18 KB</small></div>
-<div class="sig"><b>陳怡君</b>　董事長室　#1201</div>`,
+<div class="sig"><b>陳怡君</b>　董事長室　#1201</div>`, files:[{n:"11-5_董事會資料確認表.xlsx", sz:"18 KB", go:"xs"}],
   check: t => SU_MORN.check(t) === "ok" ? "ok" : "收到，謝謝確認。",
   okText:"收到，謝謝確認。",
   onOk: () => { later(() => toast("✓ 已傳送"), 2000); later(() => { arrive([{id:"sumn2", from:"蘇志誠", c:C.su, sys:true, who:"蘇志誠 &lt;jc.su@qinghe-foods.com.tw&gt;", to:"收件者：王小明",
@@ -1808,21 +1817,26 @@ const SU_AUTH = {id:"suauth", from:"蘇志誠", c:C.su, sys:false, ask:true, q:"
 <p>航警說有授權書就不能攔人。董事長在開會，電話打不通。</p><p>你幫我看一下，這張有沒有問題。</p>${AUTH_DOC}<p style="color:var(--muted)">從我的 iPhone 傳送</p>`,
   check: t => /沒問題|沒有問題|看起來正常|放行|讓她走|合法/.test(t) && !/章|開庭|法院|法庭/.test(t)
       ? {fail:["經查台端於 11/5（週四）協助確認之授權文件，經董事長證實係屬偽造，致本公司機密資料當事人得以出境。"], comfort:["小明，她拿著那張授權書過了海關。", "後來董事長說他從沒簽過那種東西，但已經來不及了。", "蘇經理在機場坐了很久才回來。"]}
-    : /舊章|舊的章|圓章|圓的|方章|換章|換了章|換過|章不對|章不一樣|印章|印鑑|蓋的章/.test(t) || /開庭|法院|法庭|不在場|不可能在|在開庭|9\s*\/\s*24|見證(時間|日期|的時間)|(時間|日期)(不對|有問題|怪|錯)/.test(t) ? "ok"
+    : /章|印/.test(t) && /舊|圓|方|換|以前|之前|過期|不對|不一樣|不同|錯|假|怪|問題/.test(t) || /開庭|法院|法庭|不在場|不可能|在開庭|9\s*\/\s*24|見證|(時間|日期)(不對|有問題|怪|錯)/.test(t) ? "ok"
     : /董事長|何正雄/.test(t) ? "董事長的章我認不出真假。有沒有更確定的地方？"
     : /律師|林志遠/.test(t) ? "林律師怎麼了？你說清楚一點。" : "她就是靠這張在拖時間。你再看一下。",
   okText:"你說得對。\n我剛打給林律師，他說 9/24 那天上午他在法院開庭，從沒見過這張紙。會辦欄那顆，還是我 9 月初就換掉的舊章。\n航警已經把她請到旁邊了。董事長剛回電，說他從來沒簽過這種東西。\n謝謝你，小明。",
   onOk: () => { later(() => toast("✓ 已傳送"), 2000); later(() => { clock = 15 * 60 + 25; arrive([{id:"end", from:"林子晴", c:C.lin, sys:true, who:"林子晴 &lt;tzuching.lin@qinghe-foods.com.tw&gt;", to:"收件者：王小明",
-    subj:"下午茶", pv:"聽說了……", body:`<p>聽說了。財務長在機場被攔下來，怡君姐下午自己去找了董事長。</p><p>以恩說，她想回來喝一杯下午茶。</p><p>3:30 茶水間，你週一訂的那 12 杯，剛好今天送到 🧋</p><p>子晴</p>${resultCard()}`}]); notify(MAILS[0]); later(() => { arrive([THANKS]); notify(MAILS[0]); toast("全劇終　謝謝遊玩"); }, 9000); }, 12000); }};
+    subj:"今天 3:30，茶水間見", pv:"聽說了……", body:`<p>聽說了。財務長在機場被攔下來，怡君姐下午自己去找了董事長。</p><p>以恩說，她想回來喝一杯下午茶。</p><p>3:30 茶水間，你週一訂的那 12 杯，剛好今天送到 🧋</p><p>子晴</p>${resultCard()}`}]); notify(MAILS[0]); later(() => { arrive([THANKS]); notify(MAILS[0]); toast("全劇終　謝謝遊玩"); }, 9000); }, 12000); }};
 // 結局彩蛋：作者的謝幕信，附官網與抖內（抖內可以許願下一款遊戲）
 const DONATE_URL = "";  // 抖內平台開好後填網址，按鈕就會出現
-const THANKS = {id:"thanks", from:"阿康（遊戲作者）", c:"#0f6cbd", sys:true, ext:true, who:"阿康（Q kangber）", to:"收件者：王小明",
-  subj:"謝謝你玩到最後 🥹", pv:"嗨，我是做這款遊戲的阿康。謝謝你一路把信讀完、把謎解開……",
-  body:`<p>嗨，我是做這款遊戲的阿康。</p><p>謝謝你一路把信讀完、把謎解開，還把財務長攔在 T1 🤣</p>
+const THANKS_TAIL = `<p>還沒玩過前作的話，可以玩玩第一代<a href="https://akangdesigner.github.io/hesen-mail/" target="_blank" rel="noopener">《冒牌信箱》</a>：有人盜用你的帳號栽贓你，你得把真正的人抓出來 👾</p>
 <p>平常我在 <a href="https://aiqkangber.com" target="_blank" rel="noopener">Q kangber 官網</a>寫 AI 和自動化的實作文章，有興趣可以來逛逛。</p>
 ${DONATE_URL ? `<p>如果你玩得開心，可以抖內請我喝杯飲料，順便許願下一款想玩的遊戲（不一定會做，當作純支持就好 🥰）</p>
 <p><a href="${DONATE_URL}" target="_blank" rel="noopener" style="display:inline-block;background:#c0392b;color:#fff;padding:8px 18px;border-radius:4px;font-weight:600;text-decoration:none">☕ 抖內＋許願下一款遊戲</a></p>` : ""}
-<p>阿康</p>`};
+<p>阿康</p>`;
+const THANKS = {id:"thanks", from:"阿康（遊戲作者）", c:"#0f6cbd", sys:true, ext:true, who:"阿康（Q kangber）", to:"收件者：王小明",
+  subj:"謝謝你玩到最後 🥹", pv:"嗨，我是做這款遊戲的阿康。謝謝你一路把信讀完、把謎解開……",
+  body:`<p>嗨，我是做這款遊戲的阿康。</p><p>謝謝你一路把信讀完、把謎解開，還把財務長攔在 T1 🤣</p>` + THANKS_TAIL};
+const THANKS_BAD = {id:"thanks", from:"阿康（遊戲作者）", c:"#0f6cbd", sys:true, ext:true, who:"阿康（Q kangber）", to:"收件者：王小明",
+  subj:"差一點點就攔到了 😭", pv:"嗨，我是做這款遊戲的阿康。財務長這次從 T1 溜走了……",
+  body:`<p>嗨，我是做這款遊戲的阿康。</p><p>財務長這次從 T1 溜走了 😭 不過你都走到最後一題了，真的很厲害 🥹</p>
+<p>那張授權書上其實藏了兩個破綻，一個跟章有關，一個跟時間有關。人事通知裡的「重新來過」可以回到第 15 題，再看一次就好。</p>` + THANKS_TAIL};
 function startFinal(){ clock = 10 * 60 + 12; arrive([SU_AUTH]); notify(MAILS[0]); }
 function startDay4(){
   MAILS.forEach(m => { if (!m.date && (!m.box || m.box === "sent")) m.date = TODAY + " " + m.tm; if (m.grp === "昨天") m.grp = "更早"; if (m.grp === "今天") m.grp = "昨天"; });
@@ -1832,7 +1846,7 @@ function startDay4(){
   // 怡君的通知和蘇經理的追問同時在收件匣
   arrive([CHEN_SHEET]); clock = 8 * 60 + 16; arrive([SU_ASK]); notify(MAILS[0]);
 }
-function startParcel(){ arrive([SU_WHERE]); notify(MAILS[0]); }
+function startParcel(){ arrive([PARCEL, SU_WHERE]); notify(MAILS[0]); }
 function startDeck(){
   clock = 14 * 60 + 20;
   arrive([SU_LOG]); notify(MAILS[0]);
@@ -2075,14 +2089,16 @@ read.addEventListener("click", e => {
     subj:"無法傳送：" + (subj || "（無主旨）"), pv:"您的郵件未傳送給 " + ZHOU_MAIL + "，收件者已被貴組織封鎖。", body:`<p>您的郵件未傳送給 <b>${ZHOU_MAIL}</b>。</p><p>收件者已被貴組織的資訊安全政策封鎖。</p>`}]); notify(MAILS[0]); }, 2000);
   if (to !== ZHOU_MAIL) return;
   later(() => {
-    if (/子晴|tzuching|交接|接手|估值|簽名|補簽|人資|人事|hr|\bj\b|j欄|j 欄|茶水間|團單|帳/i.test(body)){
+    const named = body.includes(ME) || body.includes(GIVEN), task = /營運檢討|會議|下午茶|禾茶|團購|團單|行事曆|共用|子晴|撤回|收回|排程|自動寄|藍海/i.test(body);
+    const askV = /估值/.test(body);
+    if (named && task && askV){
       done.find = true;
-      arrive([{...ZHOU_REPLY, id:"zr" + Date.now(), subj:"RE: " + (subj || "（無主旨）")}]); notify(MAILS[0]);
+      arrive([{...ZHOU_REPLY, id:"zr" + Date.now(), subj:"RE: " + (subj || "（無主旨）"), body:ZHOU_REPLY.body + zhouHist(subj || "（無主旨）", body)}]); notify(MAILS[0]);
       later(() => toast("✓ 已傳送"), 2500); later(startB1, 7000);
     } else {
       arrive([{from:"周以恩", c:C.zhou, ext:true, sys:true, who:`周以恩 &lt;${ZHOU_MAIL}&gt;`, to:"收件者：王小明", id:"zx" + Date.now(),
-        subj:"RE: " + (subj || "（無主旨）"), pv:"請問你是哪位？我不認識你。", body:`<p>請問你是哪位？我不認識你。</p><p>這個信箱我只給很少人，請不要再寄來了。</p>`}]);
-      notify(MAILS[0]); later(() => miss("周以恩不知道你是誰，信裡要說明你是誰、為什麼找她"), 1500);
+        subj:"RE: " + (subj || "（無主旨）"), ...(named && task ? {pv:"嗯，你是接手我工作的人。找我有什麼事？", body:`<p>嗯，你是接手我工作的人。</p><p>找我有什麼事？</p>`} : {pv:"請問你是哪位？我不認識你。", body:`<p>請問你是哪位？我不認識你。</p><p>這個信箱我只給很少人，請不要再寄來了。</p>`})}]);
+      notify(MAILS[0]); later(() => miss(!named ? "信裡要寫你的姓名" : !task ? "信裡要提一件你接手過的任務" : "信裡要問她估值檔的事"), 1500);
     }
   }, 3000);
 });
@@ -2375,7 +2391,7 @@ if (startQ > 1){
   if (startQ > 3){ linShared = done.share = true; SU_SHARE.onOk(); }
   if (startQ > 4){ done.recall = true; startAfternoon(); }
   if (startQ > 5){ SCHED.canceled = true; done.sched = true; startFind(); }
-  if (startQ > 6){ done.find = true; arrive([{...ZHOU_REPLY, id:"zr0", subj:"RE: 我是子晴的朋友"}]); startB1(); }
+  if (startQ > 6){ done.find = true; arrive([{...ZHOU_REPLY, id:"zr0", subj:"RE: 你好", body:ZHOU_REPLY.body + zhouHist("你好", `以恩你好，我是${ME}，接手了你的工作，這週幫部門代訂了下午茶。\n想請問 10/1 估值檔的事。`)}]); startB1(); }
   if (startQ > 7){ done.vault = true; startWho(); }
   if (startQ > 8){ done.who = true; startStamp(); }
   if (startQ > 9){ done.invite = true; startTest(); }
